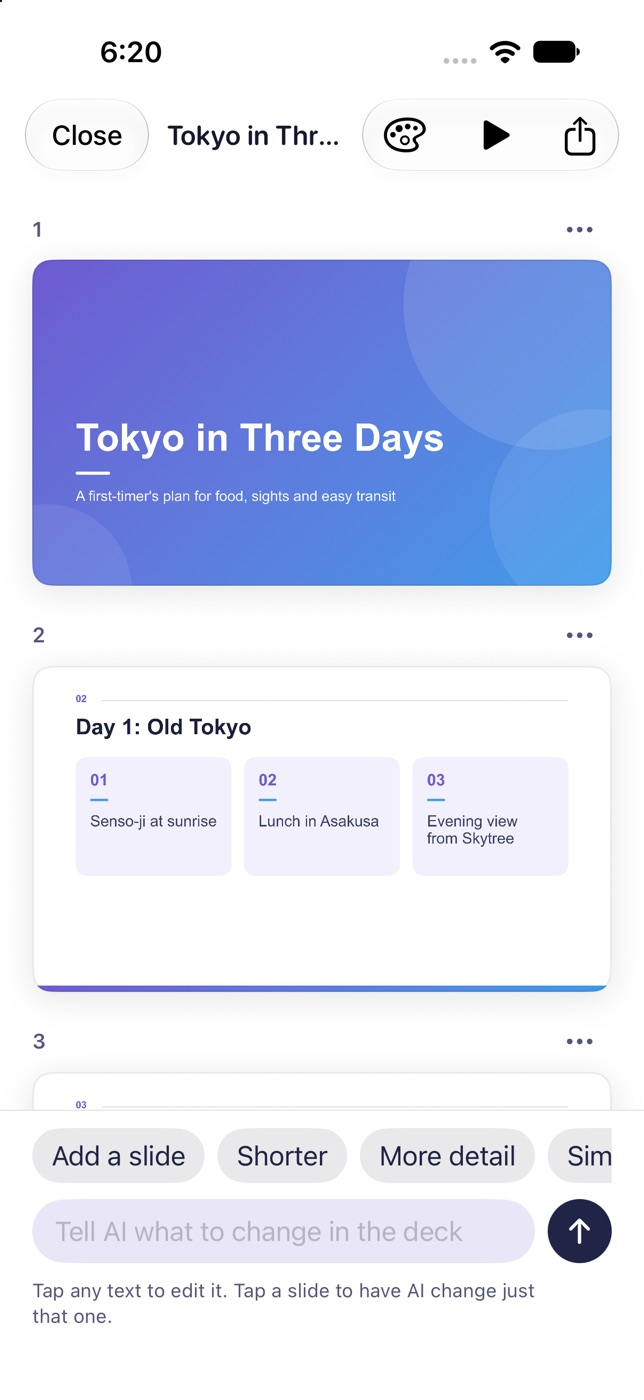
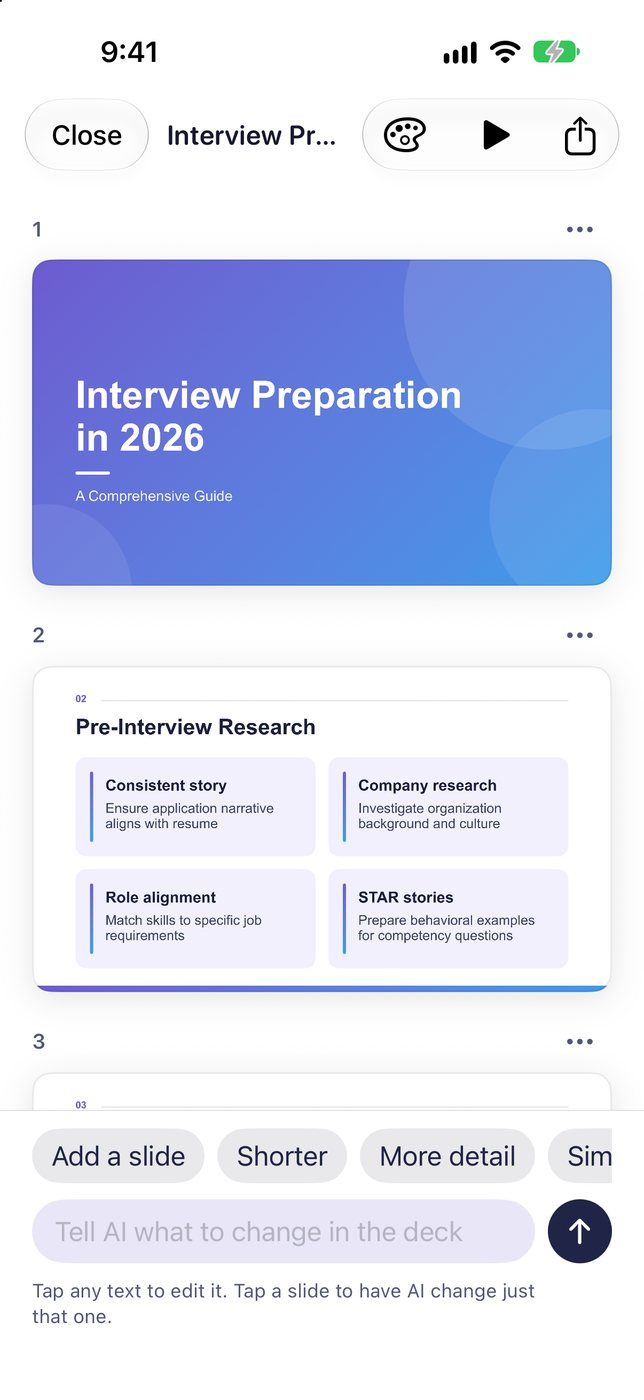
Current screenshots on the homepage
The hero shows a contract summarized with its risks flagged; the gallery
shows the deck editor and a research answer with its steps and sources.
The old home screen with suggestion cards is gone from the app, so its
screenshot is removed.

diff --git a/index.html b/index.html
@@ -14,7 +14,7 @@ home: true
       </div>
       <p class="note">For iPhone with iOS 17 or later. Coming to the App Store.</p>
     </div>
-    <div class="phone"><img src="/assets/shots/home.jpg" alt="A new chat in Dotislash, with four things to try" width="1206" height="1900"></div>
+    <div class="phone"><img src="/assets/shots/contract.jpg" alt="Dotislash summarizing a contract and flagging its risks, on the iPhone" width="644" height="1400"></div>
   </div>
 </div>
 
@@ -138,10 +138,10 @@ home: true
 <section>
   <div class="wrap">
     <h2>Made to look finished</h2>
-    <p class="sub">Decks come out designed, editable and ready to share.</p>
+    <p class="sub">Decks come out designed, editable and ready to share. Research comes back with its steps and sources.</p>
     <div class="shots two">
-      <figure class="shot"><div class="frame"><img src="/assets/shots/slides.jpg" alt="A slide deck being edited in Dotislash" loading="lazy" width="1206" height="2622"></div><figcaption>Edit slides by hand or by asking</figcaption></figure>
-      <figure class="shot"><div class="frame"><img src="/assets/shots/home.jpg" alt="A new chat with four suggestions" loading="lazy" width="1206" height="2622"></div><figcaption>Start from a suggestion</figcaption></figure>
+      <figure class="shot"><div class="frame"><img src="/assets/shots/slides.jpg" alt="A slide deck Dotislash made, open in its editor" loading="lazy" width="644" height="1400"></div><figcaption>Edit slides by hand or by asking</figcaption></figure>
+      <figure class="shot"><div class="frame"><img src="/assets/shots/research.jpg" alt="A research answer with the searches and pages it used" loading="lazy" width="644" height="1400"></div><figcaption>Research with every step shown</figcaption></figure>
     </div>
   </div>
 </section>
